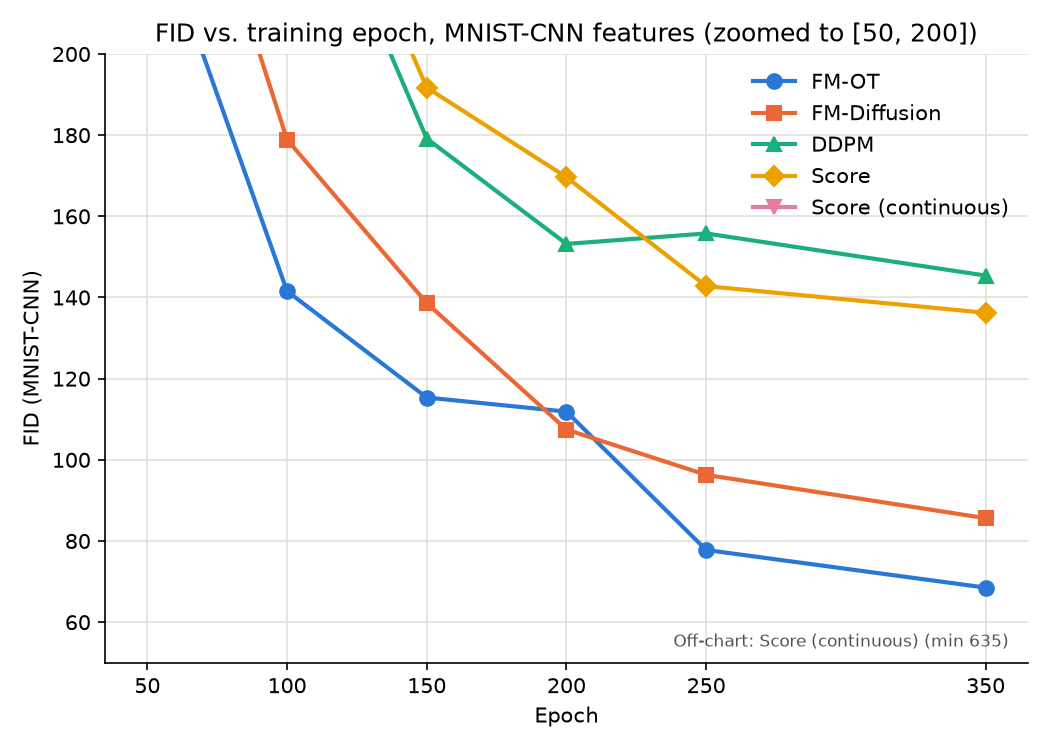
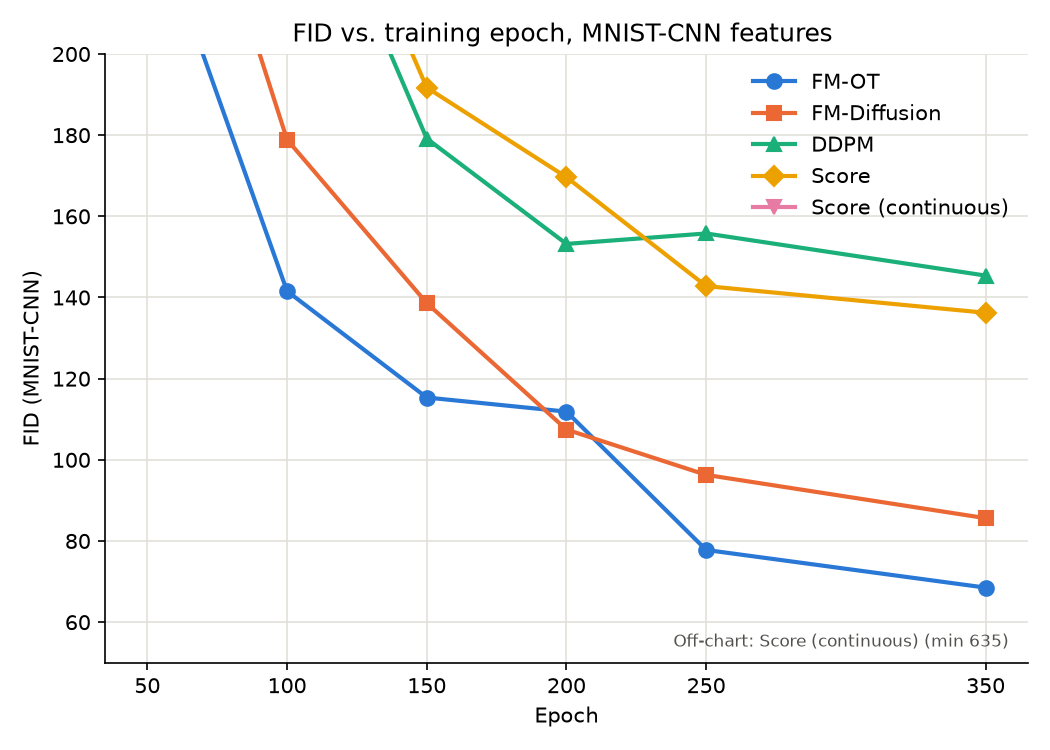
fix: simplify title in FID vs. training epoch plot for clarity

Changed region(s): [[0.1524, 0.0307, 0.9448, 0.0613]]

diff --git a/src/utils/plot_metrics.py b/src/utils/plot_metrics.py
@@ -134,10 +134,7 @@ def plot_fid_vs_epoch(
     ax.set_ylabel(f"FID ({extractor_label})")
     ax.set_xticks(epochs)
     ax.set_ylim(*ylim)
-    ax.set_title(
-        f"FID vs. training epoch, {extractor_label} features "
-        f"(zoomed to [{ylim[0]}, {ylim[1]}])"
-    )
+    ax.set_title(f"FID vs. training epoch, {extractor_label} features ")
     ax.grid(True, color="#e1e0d9", linewidth=0.8, zorder=0)
     ax.set_axisbelow(True)
     for spine in ("top", "right"):
